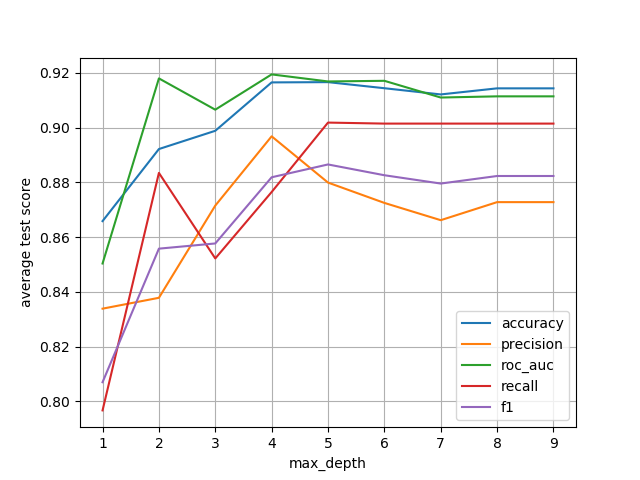
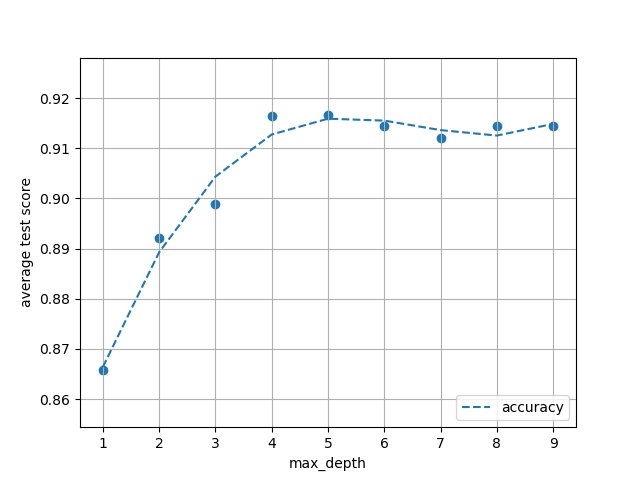
more accuracy stuff

diff --git a/myQuack(1).py b/myQuack(1).py
@@ -87,8 +87,11 @@ def build_DecisionTree_classifier(X_training, y_training):
     model = tree.DecisionTreeClassifier(random_state=1)
     # adjust arange values for the values tested
     params = {"max_depth": np.arange(1, 10, 1)}
-    clf = GridSearchCV(model, params, cv=10, n_jobs=-1, scoring=[
-                       'accuracy', 'precision', 'roc_auc', 'recall', 'f1'], refit='accuracy')
+
+    # clf = GridSearchCV(model, params, cv=10, n_jobs=-1, scoring=[
+    #                    'accuracy', 'precision', 'roc_auc', 'recall', 'f1'], refit='accuracy')
+    clf = GridSearchCV(model, params, cv=10, n_jobs=-1,
+                       scoring=['accuracy'], refit='accuracy')
     clf.fit(X_training, y_training)
     return clf
 # - - - - - - - - - - - - - - - - - - - - - - - - - - - - - - - - - - - - - - -
@@ -108,8 +111,11 @@ def build_NearrestNeighbours_classifier(X_training, y_training):
     model = KNeighborsClassifier()
     # adjust arange values for the values tested
     params = {"n_neighbors": np.arange(8, 30, 1)}
-    clf = GridSearchCV(model, params, cv=10, scoring=[
-                       'accuracy', 'precision', 'roc_auc', 'recall', 'f1'], refit='accuracy')
+
+    # clf = GridSearchCV(model, params, cv=10, scoring=[
+    #                    'accuracy', 'precision', 'roc_auc', 'recall', 'f1'], refit='accuracy')
+    clf = GridSearchCV(model, params, cv=10, n_jobs=-1,
+                       scoring=['accuracy'], refit='accuracy')
     clf.fit(X_training, y_training)
     return clf
 
@@ -129,8 +135,11 @@ def build_SupportVectorMachine_classifier(X_training, y_training):
     model = svm.SVC(random_state=1)
     # adjust arange values for the values tested
     params = {"C": np.arange(1, 15, 1)}
-    clf = GridSearchCV(model, params, cv=10, scoring=[
-                       'accuracy', 'precision', 'roc_auc', 'recall', 'f1'], refit='accuracy')
+    # clf = GridSearchCV(model, params, cv=10, n_jobs=-1, scoring=[
+    #                    'accuracy', 'precision', 'roc_auc', 'recall', 'f1'], refit='accuracy')
+
+    clf = GridSearchCV(model, params, cv=10, n_jobs=-1,
+                       scoring=['accuracy'], refit='accuracy')
     clf.fit(X_training, y_training)
     return clf
 
@@ -150,8 +159,11 @@ def build_NeuralNetwork_classifier(X_training, y_training):
     '''
     model = MLPClassifier(max_iter=1500, random_state=10)
     params = {'hidden_layer_sizes': np.arange(60, 70, 1)}
+
+    # clf = GridSearchCV(model, params, cv=10, n_jobs=-1,
+    #                    scoring=['accuracy', 'precision', 'roc_auc', 'recall', 'f1'], refit='accuracy')
     clf = GridSearchCV(model, params, cv=10, n_jobs=-1,
-                       scoring=['accuracy', 'precision', 'roc_auc', 'recall', 'f1'], refit='accuracy')
+                       scoring=['accuracy'], refit='accuracy')
     clf.fit(X_training, y_training)
     return clf
 # - - - - - - - - - - - - - - - - - - - - - - - - - - - - - - - - - - - - - - -
@@ -162,7 +174,7 @@ def build_NeuralNetwork_classifier(X_training, y_training):
 # Plots a graph of
 
 
-def plot_Hyperparameter_Op(clf):
+def plot_Hyperparameter_Op(clf, x_test, y_test):
     # Create and array of the hyperparameter that was tuned
     parameters = list()
     for parameter in clf.param_grid.keys():
@@ -183,7 +195,10 @@ def plot_Hyperparameter_Op(clf):
 
     metric_num = 0
     for score in scores:
-        plt.plot(values, score, '-', label=metrics[metric_num])
+        plt.scatter(values, score)
+        z = np.polyfit(values, score, 4)
+        p = np.poly1d(z)
+        plt.plot(values, p(values), "--", label=metrics[metric_num])
         metric_num += 1
 
     plt.xlabel(parameters[0])
@@ -200,12 +215,12 @@ def check_Classifier_Both_Performance(clf):
     train_score = clf.score(x_train, y_train) * 100
     test_error = 100 - test_score
     train_error = 100 - train_score
-    print('Train Accuracy: %.2f%%' % train_score,
-          '\tTrain Error: %.2f%%' % train_error)
-    print('Test Accuracy: %.2f%%' % test_score,
-          '\tTest Error: %.2f%%' % test_error)
+    print('Train Accuracy:\t%.2f%%' % train_score,
+          '\t\tTrain Error:\t%.2f%%' % train_error)
+    print('Test Accuracy:\t%.2f%%' % test_score,
+          '\t\tTest Error:\t%.2f%%' % test_error)
     
-
+    
 # evaluates the classifier's accuracy using the testing data
 def check_Classifier_Testing_Performance(clf, x_testing, y_testing):
     results = balanced_accuracy_score(
@@ -260,10 +275,11 @@ if __name__ == "__main__":
     x_train, x_test, y_train, y_test = train_test_split(
         x, y, test_size=0.2, random_state=100)
 
-    # for assessor purposes, uncomment the classifier you want to use
-    # no other lines should need to be commented out, as the rest of the code
-    # handles training and testing for you
-    # list of classifiers
+
+
+# NOTE TO THE ASSESSOR:
+# Please uncomment the classifier that you would like to test, as well as
+# any testing / plotting funtions that you wish to use
 
 
 # Classifiers
@@ -283,20 +299,21 @@ if __name__ == "__main__":
 
 
 #-------- SVM Classifier -------------------------------------------------#
-    # print("SVM")
-    # clf = build_SupportVectorMachine_classifier(
-    #     x_train, y_train)
-#-------------------------------------------------------------------------#
-
-
-#-------- Neural Network Classifier --------------------------------------#
-    print("Neural Network")
-    clf = build_NeuralNetwork_classifier(
+    print("SVM")
+    clf = build_SupportVectorMachine_classifier(
         x_train, y_train)
 #-------------------------------------------------------------------------#
 
 
+#-------- Neural Network Classifier --------------------------------------#
+    # print("Neural Network")
+    # clf = build_NeuralNetwork_classifier(
+    #     x_train, y_train)
+#-------------------------------------------------------------------------#
+
+
 # Classifier performance / plotting methods
+
 
 #-------- Print testing / training scores --------------------------------#
     check_Classifier_Both_Performance(clf)
@@ -324,7 +341,7 @@ if __name__ == "__main__":
 
 
 #-------- Plot hyperparameter graph --------------------------------------#
-    plot_Hyperparameter_Op(clf)
+    plot_Hyperparameter_Op(clf, x_test, y_test)
 #-------------------------------------------------------------------------#
 
 
